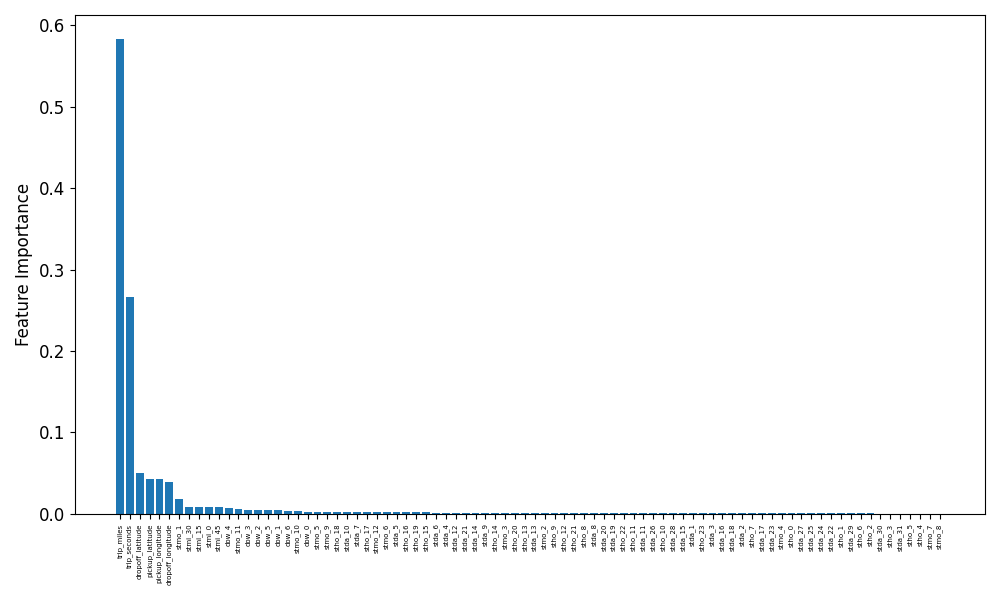
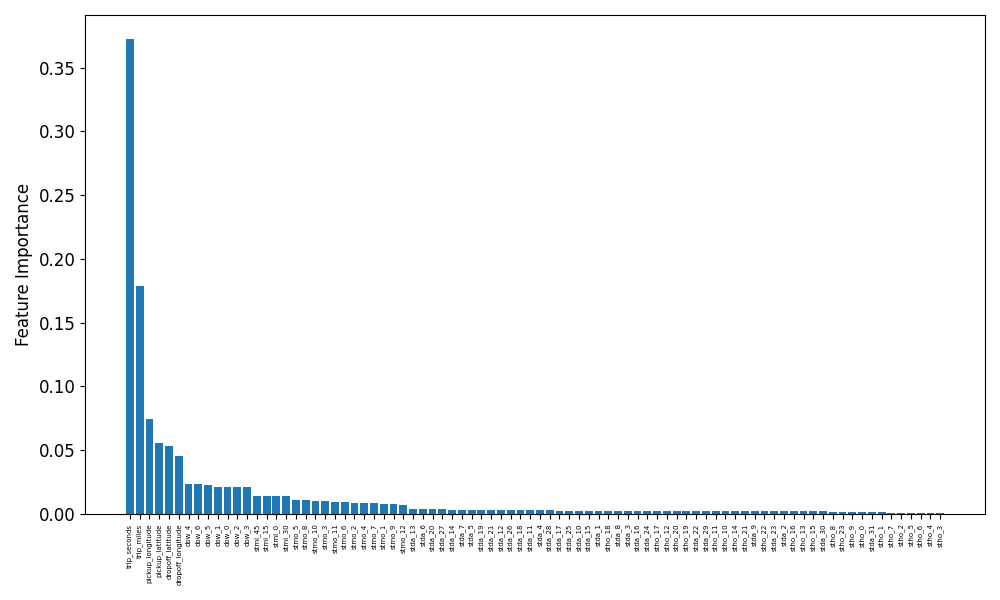
Whitepaper: update feature engineering section

Changed region(s): [[0.031, 0.06, 0.961, 0.99], [0.031, 0.03, 0.062, 0.06]]

diff --git a/python/demo1/local_dev.py b/python/demo1/local_dev.py
@@ -37,19 +37,20 @@ df_cat = pd.to_datetime(df['trip_start_timestamp']).dt.dayofweek.to_frame(name='
 df['trip_start_datetime'] = pd.to_datetime(df['trip_start_timestamp'])
 df_cat['start_month'] = df['trip_start_datetime'].dt.month
 df_cat['start_day'] = df['trip_start_datetime'].dt.day
-df_cat['start_hour'] = df['trip_start_datetime'].dt.hour
-df_cat['start_minute'] = df['trip_start_datetime'].dt.minute
+#df_cat['start_hour'] = df['trip_start_datetime'].dt.hour
+#df_cat['start_minute'] = df['trip_start_datetime'].dt.minute
 #df_cat['pickup_census_tract'] = df['pickup_census_tract']
 #df_cat['dropoff_census_tract'] = df['dropoff_census_tract']
 #df_cat['pickup_community_area'] = df['pickup_community_area']
 #df_cat['dropoff_community_area'] = df['dropoff_community_area']
 
 # fit and transform the data
-df_ohe = pd.get_dummies(df_cat['day_of_week'], prefix='dow')
-df_ohe = pd.concat([df_ohe, pd.get_dummies(df_cat['start_month'], prefix='stmo')], axis=1)
-df_ohe = pd.concat([df_ohe, pd.get_dummies(df_cat['start_day'], prefix='stda')], axis=1)
-df_ohe = pd.concat([df_ohe, pd.get_dummies(df_cat['start_hour'], prefix='stho')], axis=1)
-df_ohe = pd.concat([df_ohe, pd.get_dummies(df_cat['start_minute'], prefix='stmi')], axis=1)
+df_ohe = pd.get_dummies(df_cat['start_month'], prefix='stmo')
+#df_ohe = pd.get_dummies(df_cat['day_of_week'], prefix='dow')
+#df_ohe = pd.concat([df_ohe, pd.get_dummies(df_cat['start_month'], prefix='stmo')], axis=1)
+#df_ohe = pd.concat([df_ohe, pd.get_dummies(df_cat['start_day'], prefix='stda')], axis=1)
+#df_ohe = pd.concat([df_ohe, pd.get_dummies(df_cat['start_hour'], prefix='stho')], axis=1)
+#df_ohe = pd.concat([df_ohe, pd.get_dummies(df_cat['start_minute'], prefix='stmi')], axis=1)
 #df_ohe = pd.concat([df_ohe, pd.get_dummies(df_cat['pickup_census_tract'], prefix='pct')], axis=1)
 #df_ohe = pd.concat([df_ohe, pd.get_dummies(df_cat['dropoff_census_tract'], prefix='dct')], axis=1)
 #df_ohe = pd.concat([df_ohe, pd.get_dummies(df_cat['pickup_community_area'], prefix='pca')], axis=1)
@@ -134,11 +135,12 @@ y_pred = model.predict(X_test)
 # calculate the R-squared value
 r2 = r2_score(y_test, y_pred)
 
-
-result = permutation_importance(model, X_test, y_test, n_repeats=10, random_state=0, scoring='r2')
+"""
+result = permutation_importance(model, X_test, y_test, n_repeats=5, random_state=0, scoring='r2', max_samples=100000)
 importance = result.importances_mean
 
 print(importance)
+np.sum(importance)
 
 sorted_idx = importance.argsort()[::-1]
 labels = df_selected.columns.array[1:]
@@ -149,4 +151,70 @@ plt.yticks(fontsize=12)
 plt.ylabel('Feature Importance', fontsize=12)
 plt.tight_layout()
 plt.savefig('feature_importance.png')
+plt.show()
+"""
+import numpy as np
+import pandas as pd
+from sklearn.metrics import accuracy_score
+
+# Sample model training and evaluation
+original_score =  r2_score(y_test, y_pred)
+
+labels = df_selected.columns.array[1:]
+
+# Create a DataFrame from the 2D NumPy array and labels
+X_test_df = pd.DataFrame(X_test, columns=labels)
+
+# Function to shuffle one-hot encoded columns by prefix
+def shuffle_columns_by_prefix(data, prefix):
+    cols = [col for col in data.columns if col.startswith(prefix)]
+    data_copy = data.copy()
+    shuffled_values = np.random.permutation(data_copy[cols].values)
+    data_copy[cols] = shuffled_values
+    return data_copy
+
+# List of prefixes for one-hot encoded variables
+prefixes = ['trip_seconds', 'trip_miles', 'pickup_latitude', 'pickup_longitude', 'dropoff_latitude',
+            'dropoff_longitude', 'dow', 'stmo', 'stda', 'stho', 'stmi']
+num_repetitions = 5  # Number of times to repeat the computation
+subset_fraction = 0.1  # Fraction of data to use for computation
+
+# Dictionary to store accumulated importance results
+accumulated_importances = {prefix: 0 for prefix in prefixes}
+
+# Repeat computation and accumulate importances
+for i in range(num_repetitions):
+    # Sample a subset of the data without replacement
+    X_test_subset = X_test_df.sample(frac=subset_fraction, replace=False)
+    y_test_subset = y_test[X_test_subset.index]
+
+    for prefix in prefixes:
+        print('repetition number:', i, 'prefix:', prefix)
+        shuffled_data = shuffle_columns_by_prefix(X_test_subset, prefix)
+        shuffled_score = r2_score(y_test_subset, model.predict(shuffled_data))
+        importance = original_score - shuffled_score
+        accumulated_importances[prefix] += importance
+
+# Calculate the mean importance for each feature group
+mean_feature_importance = {prefix: total_importance / num_repetitions
+                           for prefix, total_importance in accumulated_importances.items()}
+
+# Printing the mean feature importance
+print("Mean Feature Importance:")
+for feature, importance in mean_feature_importance.items():
+    print(f"{feature}: {importance}")
+
+# Assuming mean_feature_importance is your dictionary with feature importances
+# Sort the dictionary by importance in descending order
+sorted_feature_importance = dict(sorted(mean_feature_importance.items(), key=lambda item: item[1], reverse=True))
+
+# Plotting the mean feature importance
+plt.figure(figsize=(12, 6))
+plt.bar(range(len(sorted_feature_importance)), list(sorted_feature_importance.values()), align='center')
+plt.xticks(range(len(sorted_feature_importance)), list(sorted_feature_importance.keys()), rotation=45, ha='right')
+plt.xlabel('Features')
+plt.ylabel('Mean Importance')
+plt.title('Mean Feature Importance')
+plt.tight_layout()  # Adjust layout to fit labels
+plt.savefig('feature_importance_1.png')
 plt.show()
